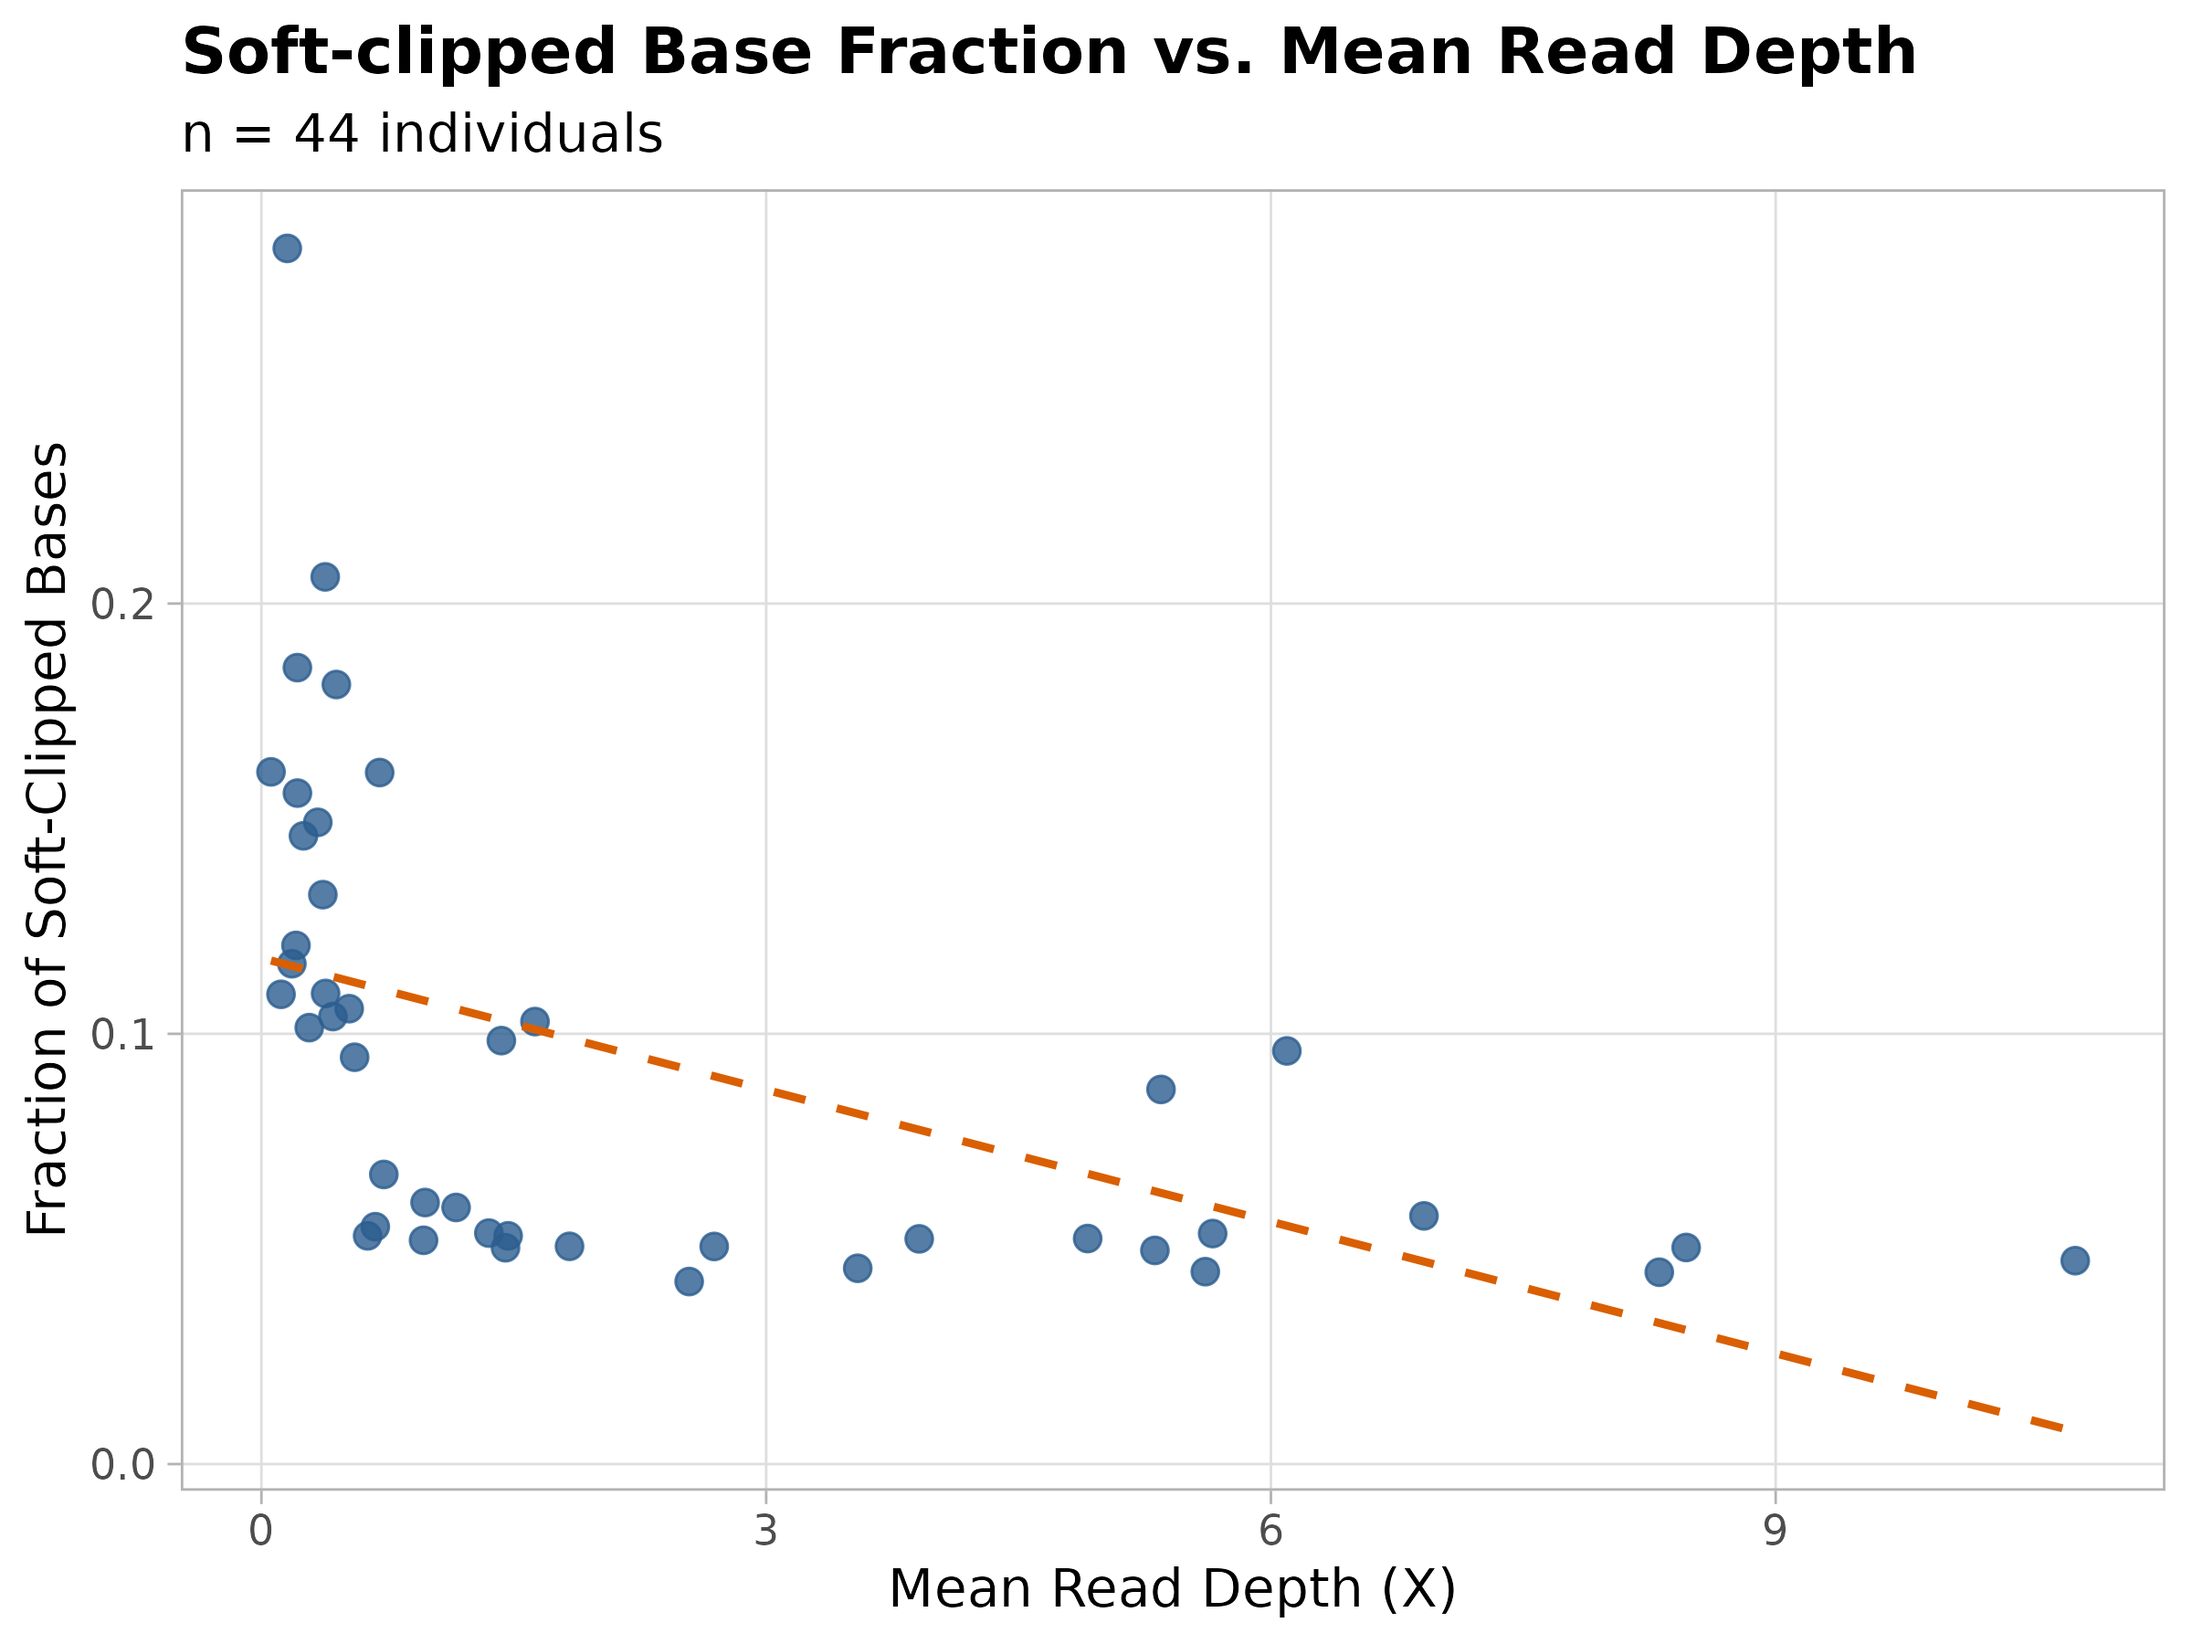
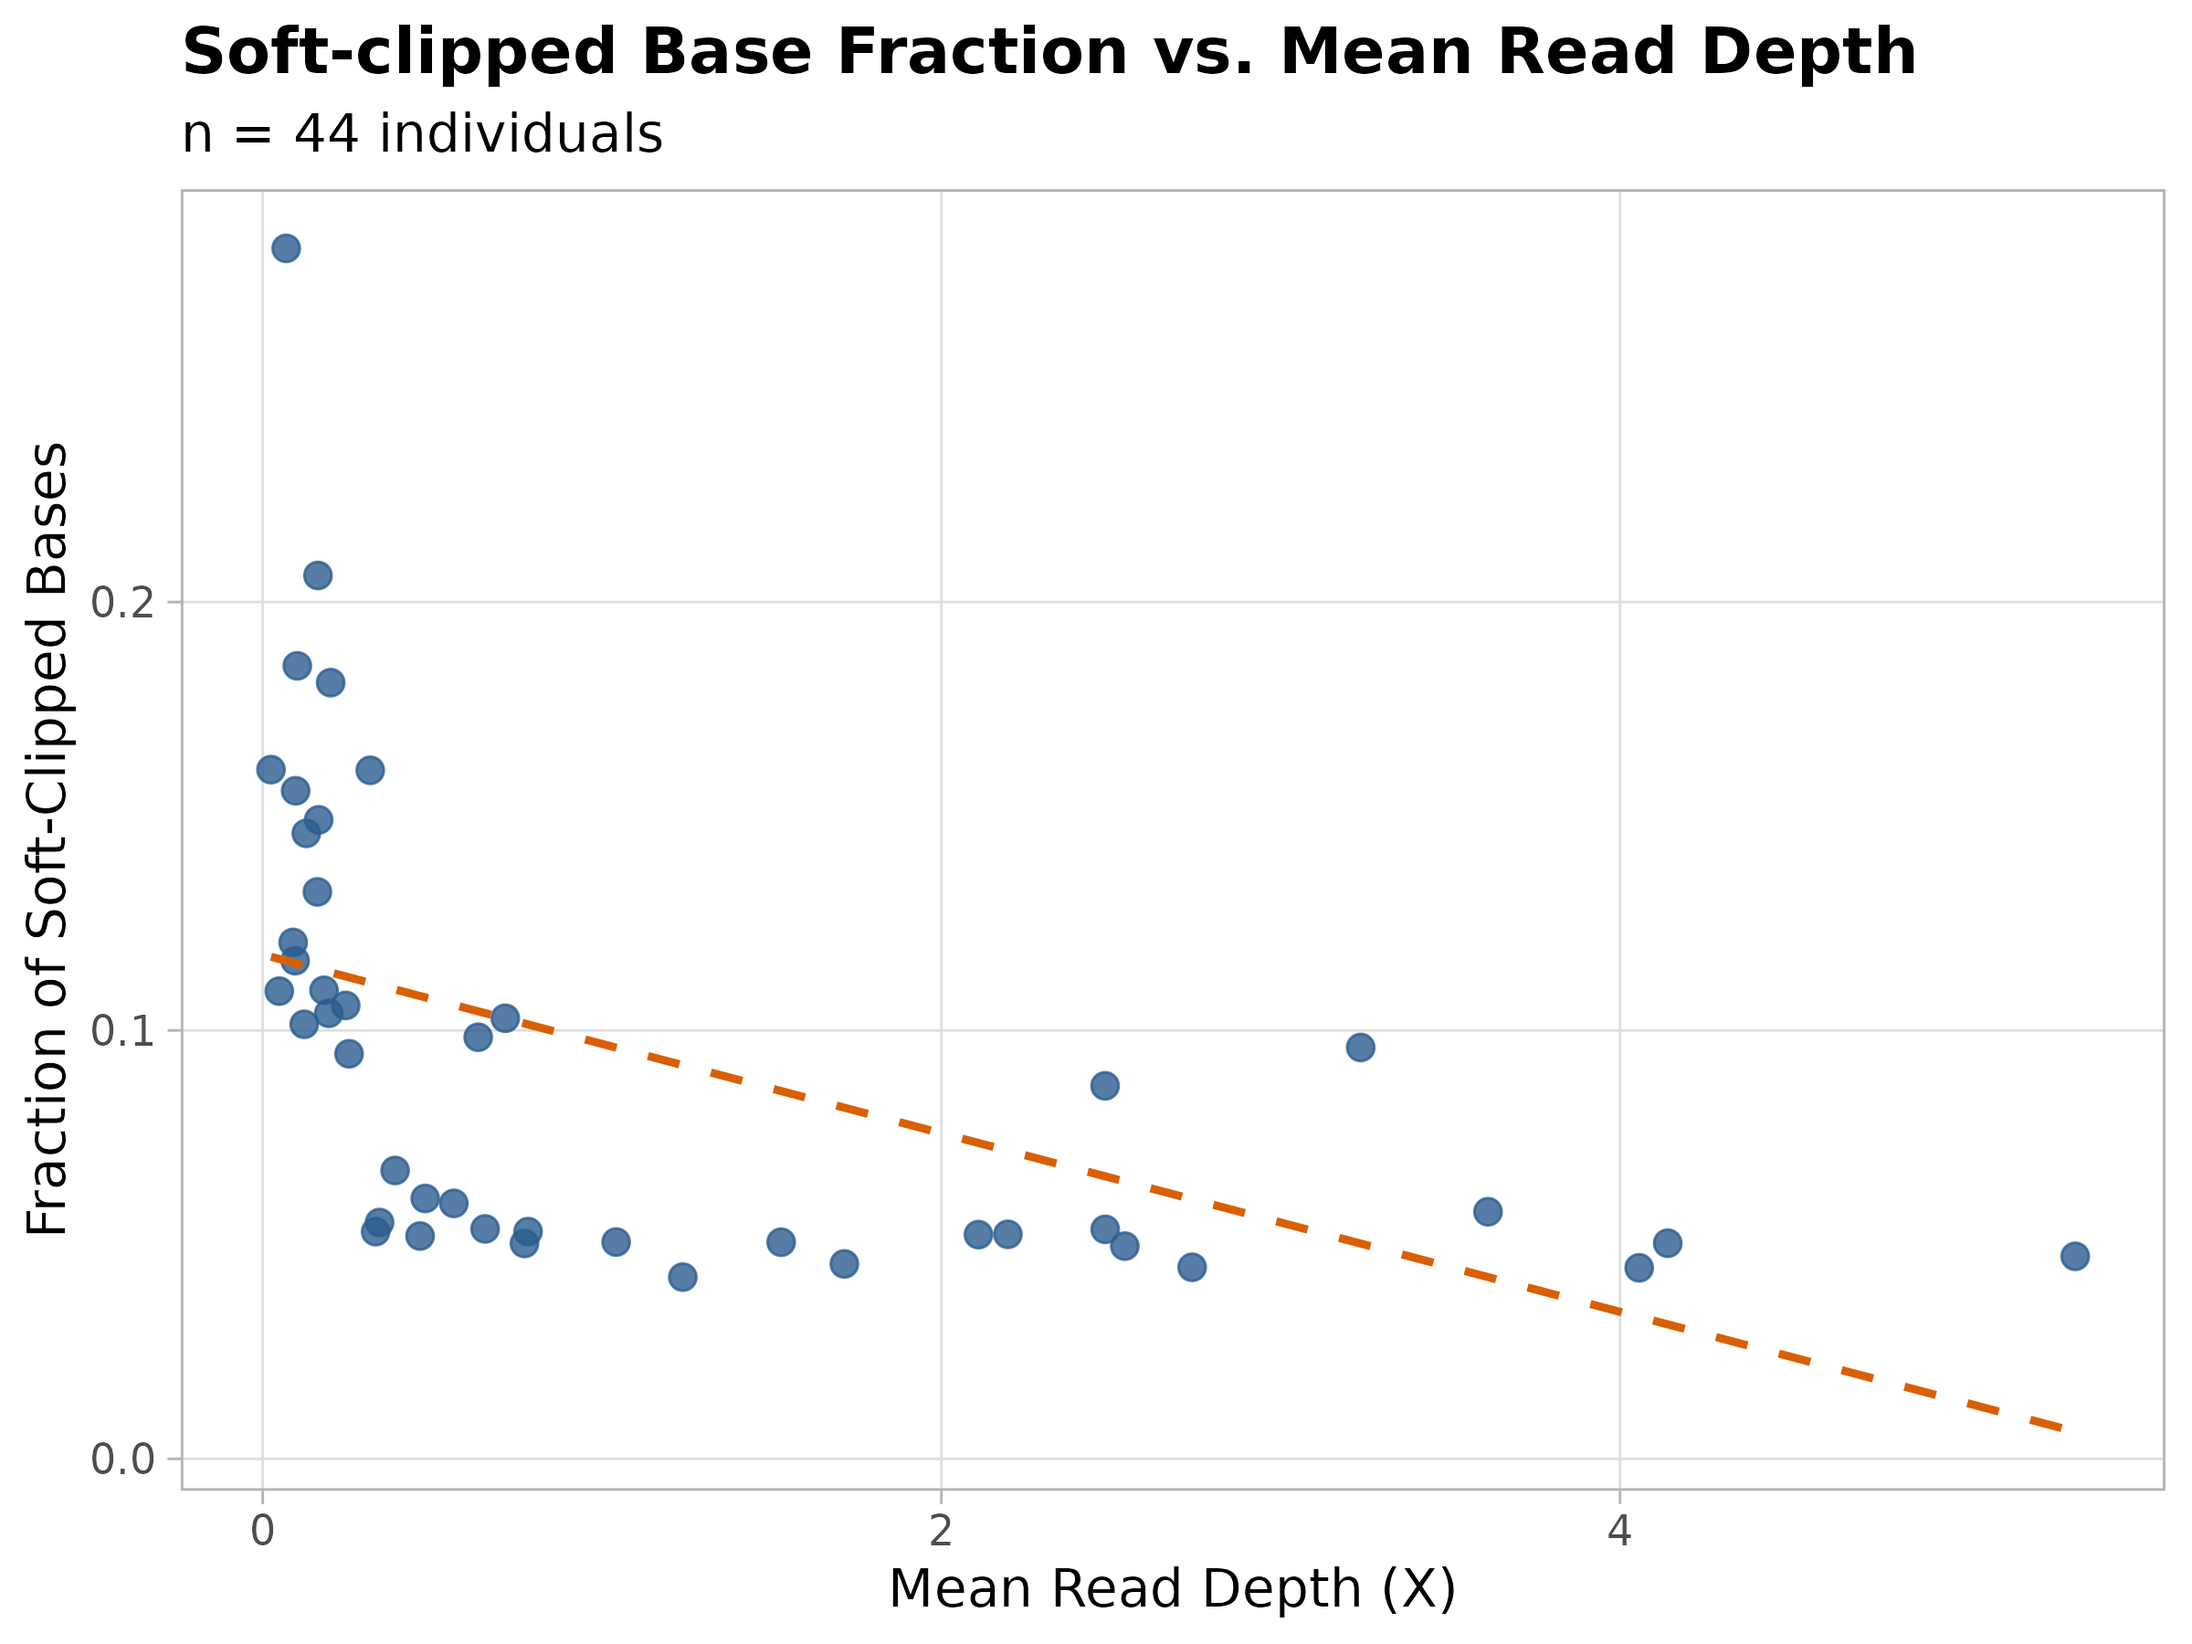
Re-ran softclip vs depth plot, found error in bed masking and re-ran nf-trim on iridian genome

diff --git a/README.md b/README.md
@@ -619,15 +619,15 @@ bash
 awk '!/^>/ {sum += length($0)} END {print sum}' nf-pipelines/nf-trim-generode/data/reference/reference.ssl.Cvi20k_rename.fasta
 awk '!/^>/ {sum += length($0)} END {print sum}' data/GCA_051013605.1_ASM5101360v1_genomic_20kb.fna
 ```
-Ours is only 89MB, the Iridian one is 760MB.
+Ours is only 89MB, the Iridian one is 760MB. Latter is much more contiguous.
 
-Run nf-trim-generode on the new genome with output in `results-iridian`. Otherwise the same parameters:
+Run nf-trim-generode on the new genome with output in `results-iridian` (see parameters in `main-iridian.nf`). Otherwise the same parameters:
 ```
 tmux a -t nextflow
 cd /archive/carpenterlab/pire/mpinsky/pire_chromis_viridis_lcwgs/nf-pipelines/nf-trim-generode
-nextflow run main.nf -profile standard --reference /archive/carpenterlab/pire/mpinsky/pire_chromis_viridis_lcwgs/data/GCA_051013605.1_ASM5101360v1_genomic_20kb.fna --outdir /archive/carpenterlab/pire/mpinsky/pire_chromis_viridis_lcwgs/nf-pipelines/nf-trim-generode/results-iridian
+nextflow run main-iridian.nf -profile standard
 ```
-See `results-iridian` for the output. Mapdamage has dropped by about half (compared to the in-house genome) based on spot-checking mapdamage plots. However, about 12% of the Iridian genome has no coverage, even for individuals with high read depth. Repeat modeling and masking took more than 6 days (most of this time in post-processing the masking files).
+See `results-iridian` for the output. Mapdamage has dropped by about half (compared to the in-house genome) based on spot-checking mapdamage plots. However, about 12% of the Iridian genome has no coverage, even for individuals with high read depth.
 
 ### 11.4.1 Softclipping for Iridian genome
 Modified the fasta, input, and output file paths, then ran mapdamage diagnostics on the modern Cvi files to check if they also have less soft-clipping:
@@ -648,8 +648,6 @@ Made a script to plot fraction softclipped vs. depth per individual:
 sbatch scripts/plot_softclip_vs_depth.sbatch
 ```
 The [plot](output/softclip_analysis-iridian/softclip_vs_depth_plot.png) shows that all individuals have ~5% softclipping, and the individuals with depth <1x have 10-30% softclipping. 
-
-NOTE: This script currently uses the depth calculations in `nf-pipelines/nf-trim-generode/results/depth`. Once ready, we should instead use `nf-pipelines/nf-trim-generode/results-iridian/depth`.
 
 ## 11.X Clean up
 Remove the temporary work directory:
